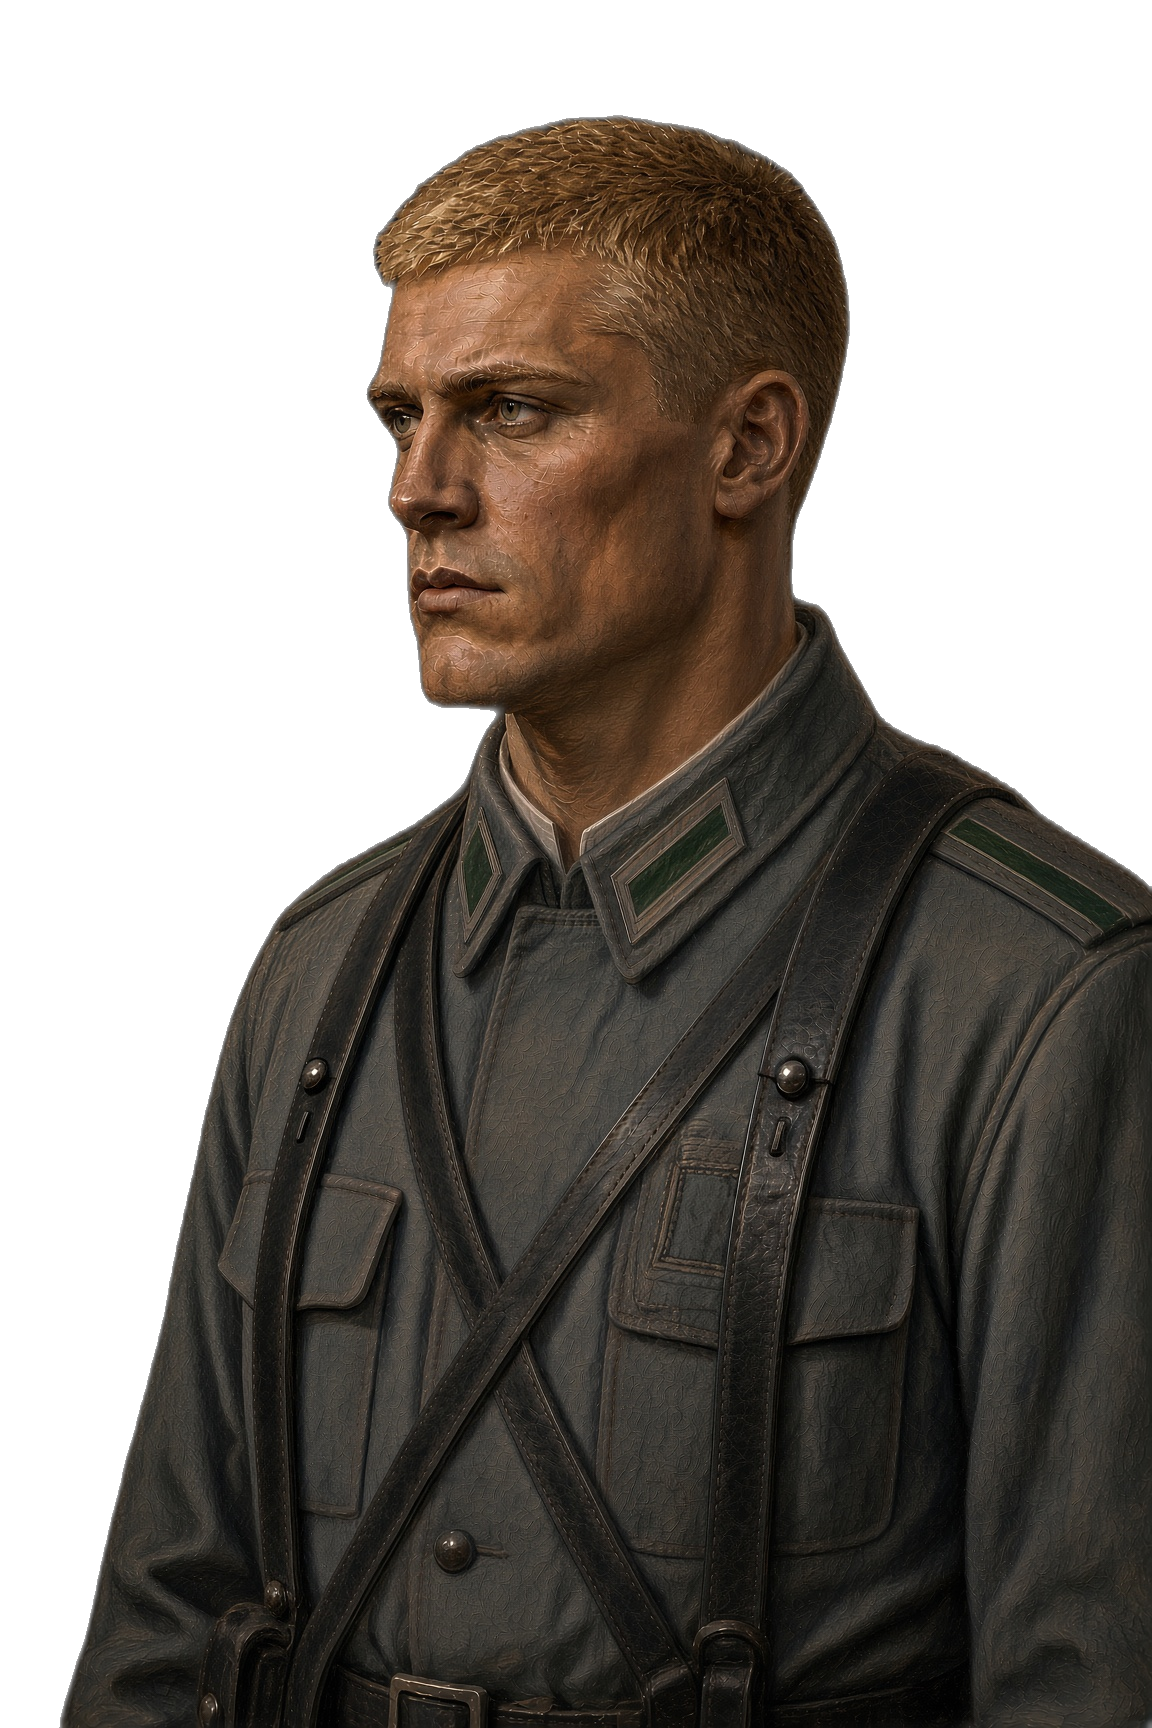
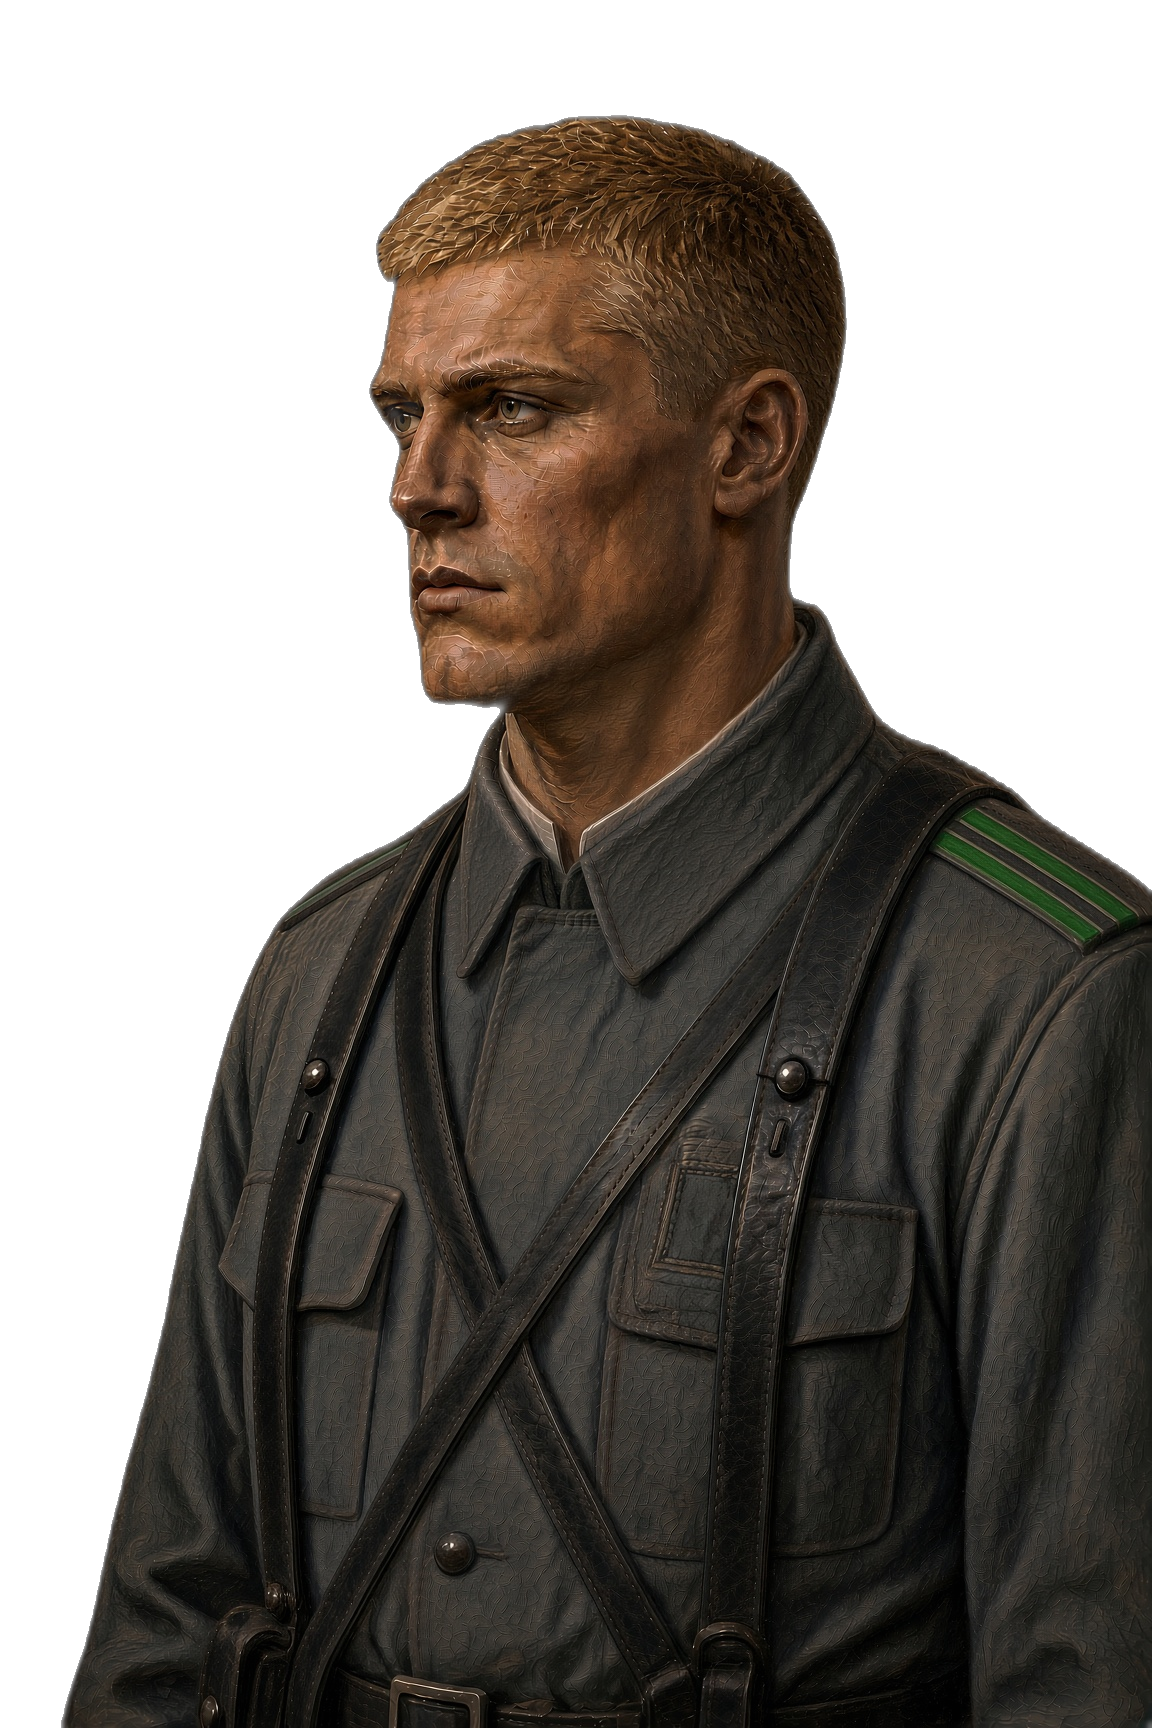
Steinmark 2: zwei grüne Streifen auf der Schulter.

diff --git a/Division_Command_0.32c/web/index.html b/Division_Command_0.32c/web/index.html
@@ -614,7 +614,7 @@
   <script src="js/ai/bot.js?v=032d5"></script>
   <script src="js/ui/perf.js?v=030c"></script>
   <script src="js/ui/library.js?v=030n"></script>
-  <script src="js/ui/portraits.js?v=kit15"></script>
+  <script src="js/ui/portraits.js?v=kit16"></script>
   <script src="js/ui/app.js?v=kit2"></script>
   <script src="js/ui/hand-drag.js?v=032d2"></script>
   <script src="js/net.js?v=030c"></script>

diff --git a/Division_Command_0.32c/web/js/ui/portraits.js b/Division_Command_0.32c/web/js/ui/portraits.js
@@ -71,7 +71,7 @@
   };
   var RANK_AGES = 'fhr,lt,olt,hptm,maj,obstlt,obst,bg,genmj,genlt,gen,fm,gfm';
 
-  var VER = '20';
+  var VER = '21';
 
   var FACE_FILE = {
     f01: 'Vael/male/01.png',
